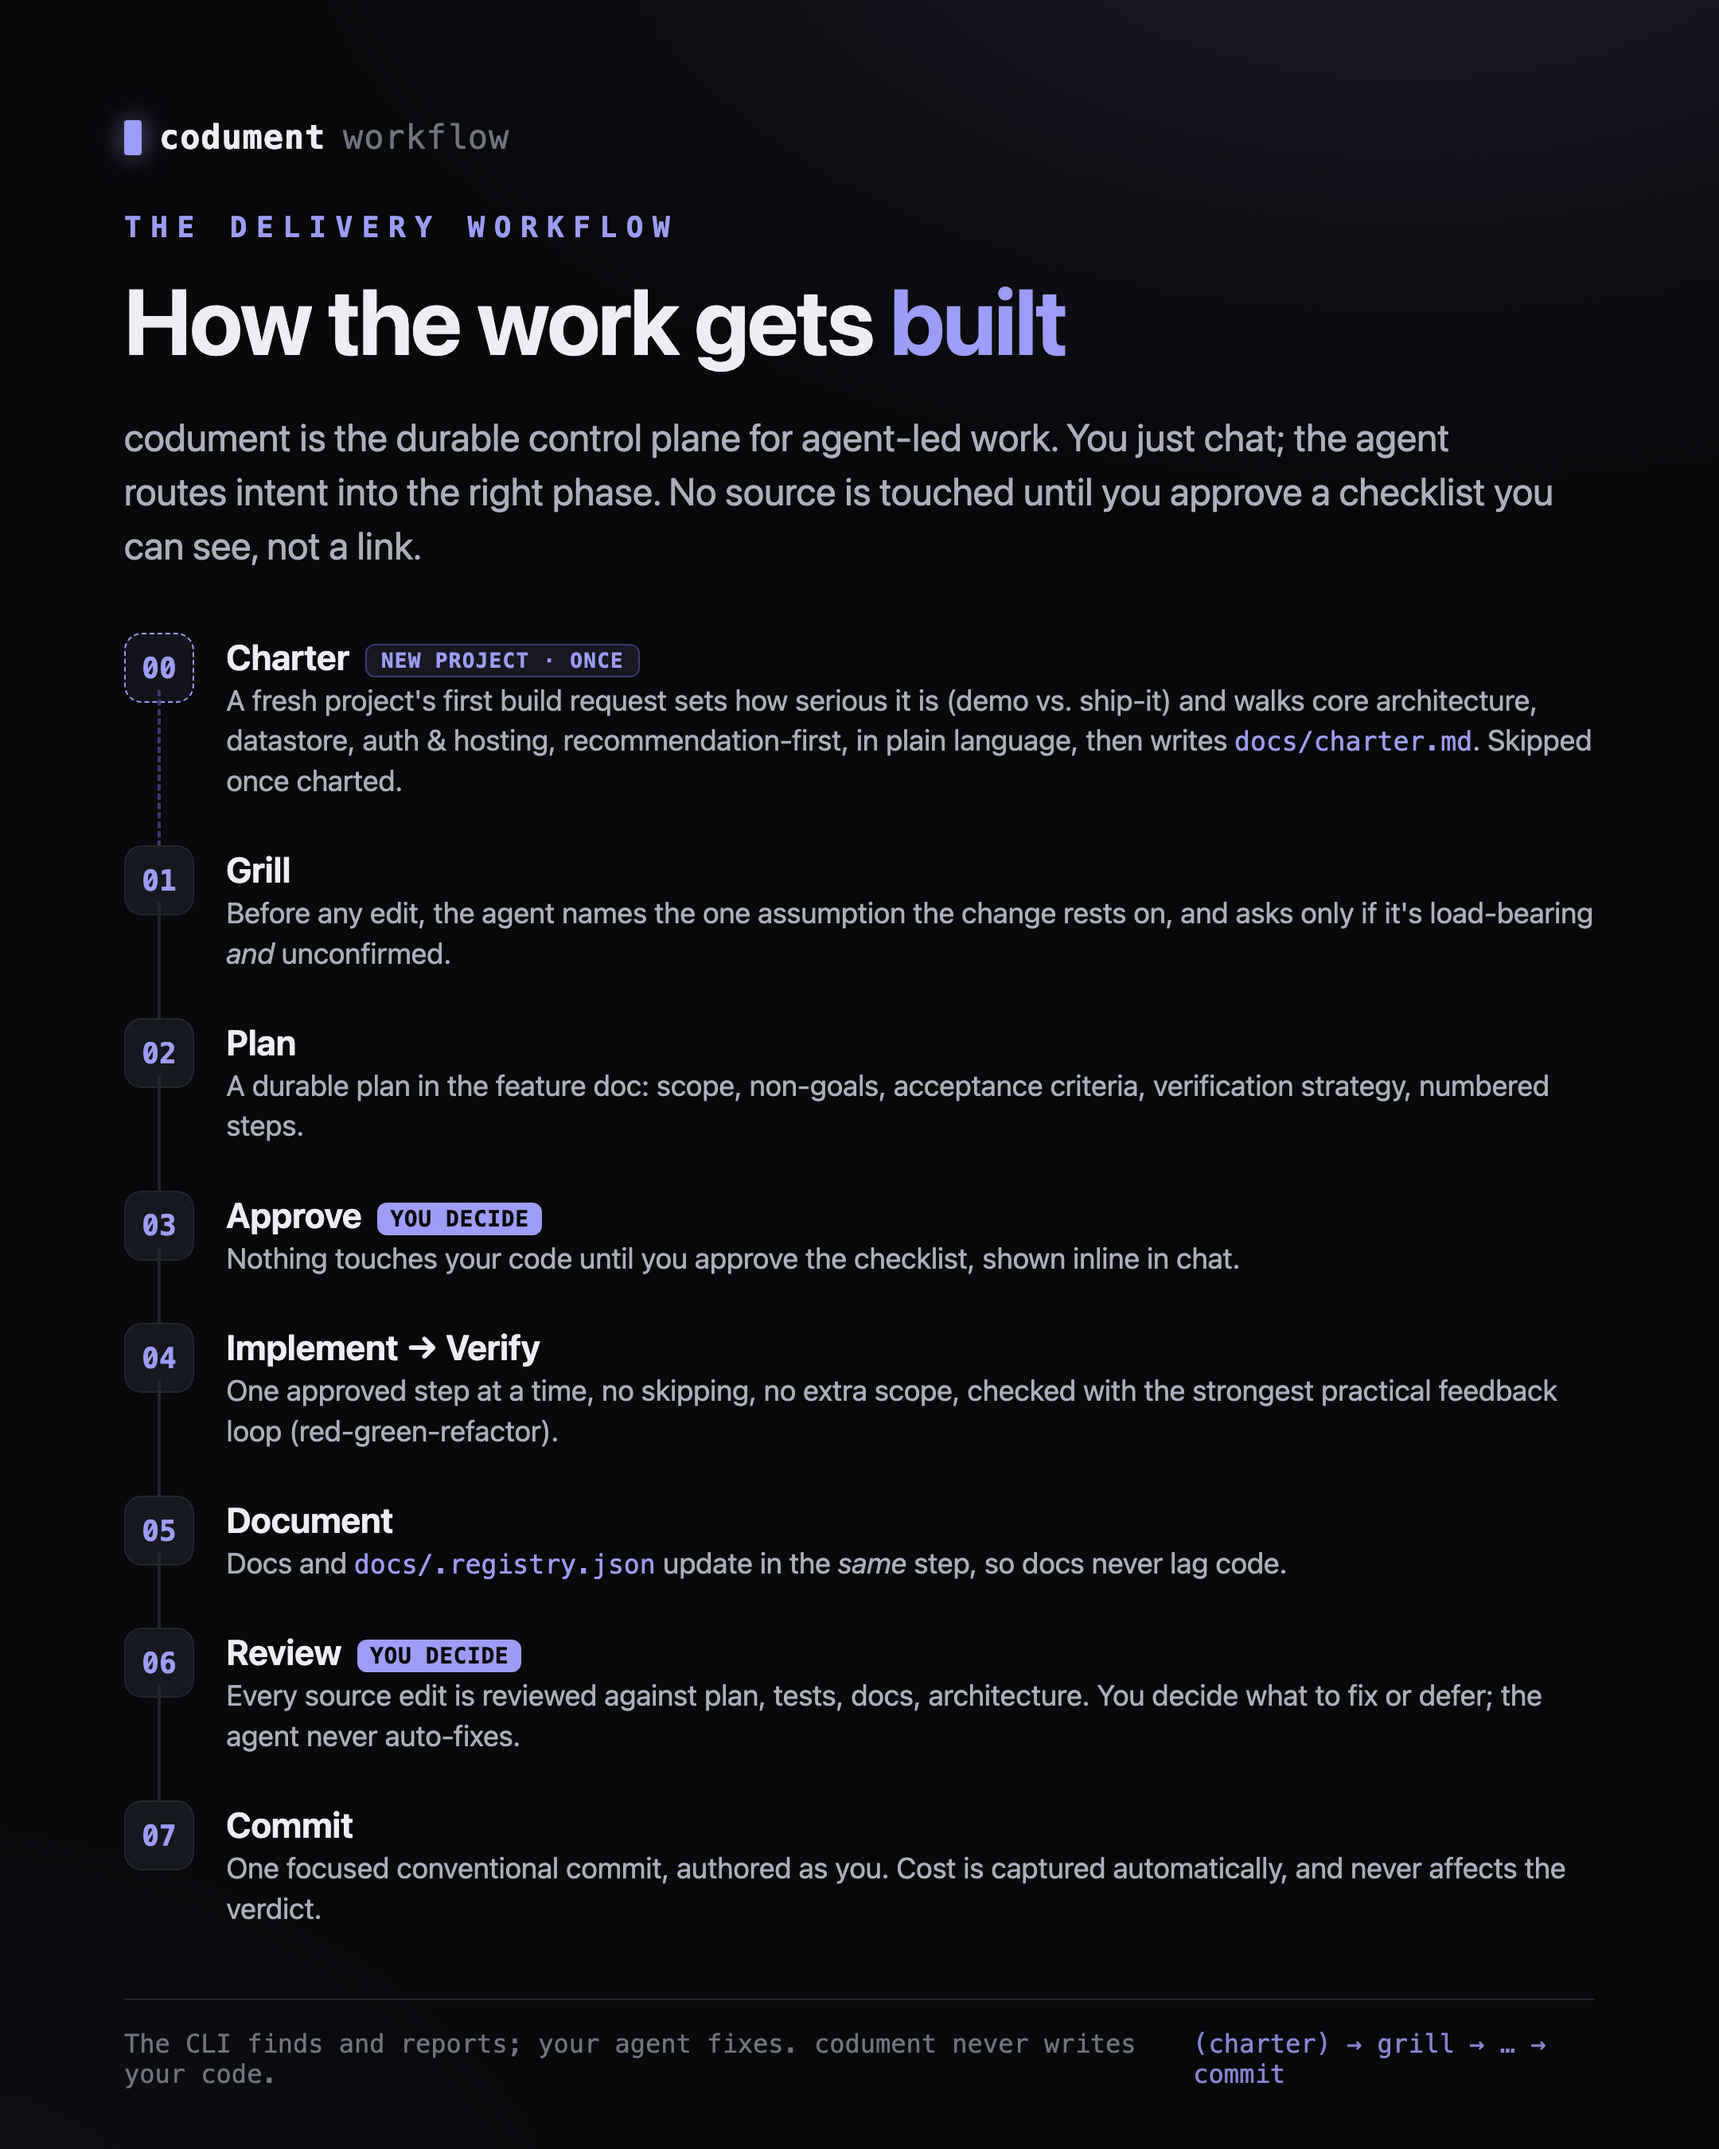
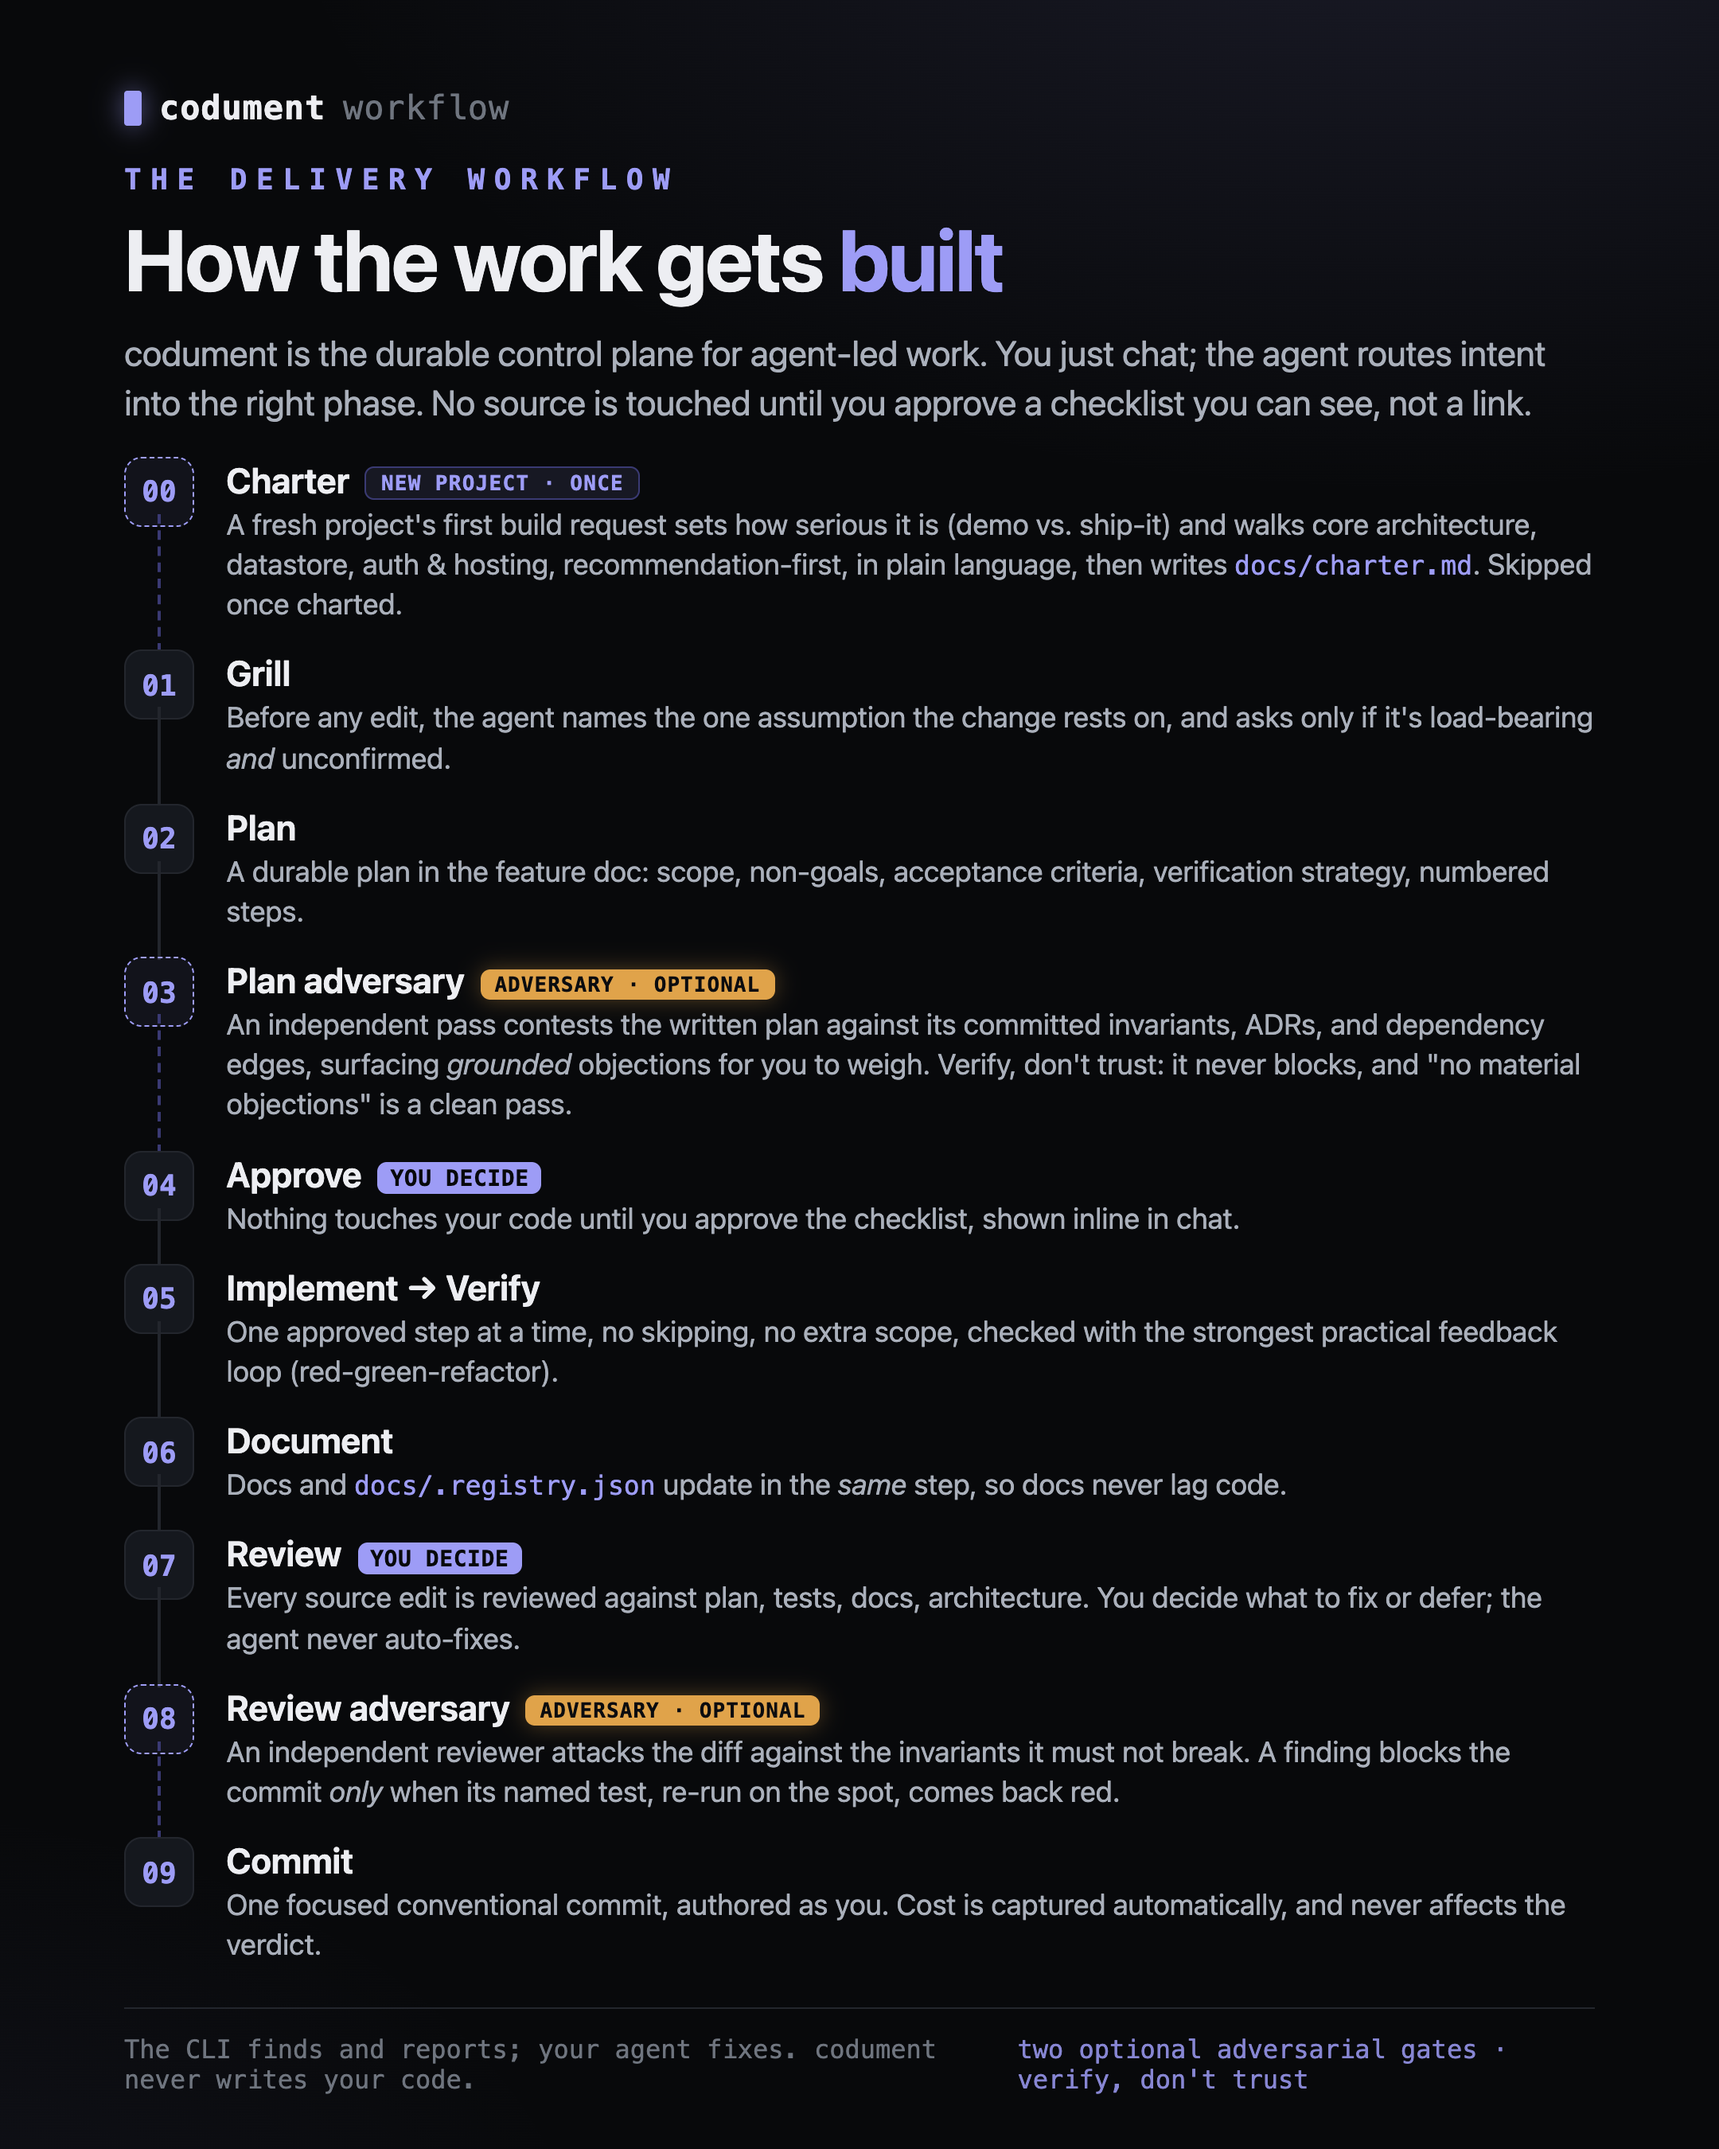
docs(readme): regenerate the workflow graphic with the two adversarial gates
Re-render docs/assets/codument-workflow.png from its HTML source (marketing/
linkedin-cost-post/readme-workflow.html) with the plan adversary (before approve)
and the review adversary (before commit) as first-class optional gates, and update
the image alt text to match.

diff --git a/README.md b/README.md
@@ -122,7 +122,7 @@ Use `adopt` when a project already has Codument docs or an older `.codument-meta
 Chat normally. Codument's always-loaded instructions route clear intent into the right delivery skill; slash commands are just explicit overrides when you want to force a phase.
 
 <p align="center">
-  <img src="docs/assets/codument-workflow.png" alt="The codument delivery workflow: charter (new project, once) → grill → plan → approve (you decide) → implement & verify → document → review (you decide) → commit; the CLI finds and reports, your agent fixes" width="760">
+  <img src="docs/assets/codument-workflow.png" alt="The codument delivery workflow: charter (new project, once) → grill → plan → plan adversary (optional) → approve (you decide) → implement & verify → document → review (you decide) → review adversary (optional) → commit; two optional adversarial gates, verify don't trust; the CLI finds and reports, your agent fixes" width="760">
 </p>
 
 ```mermaid
